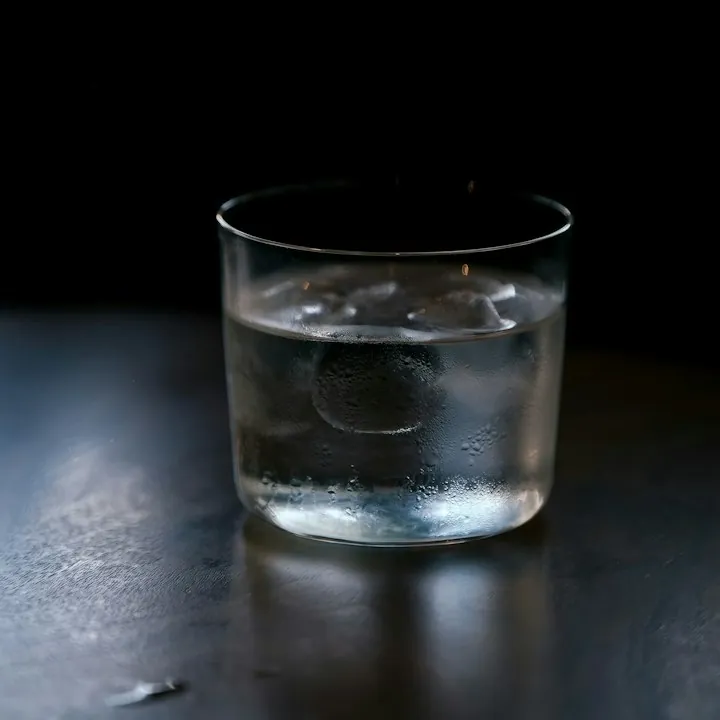
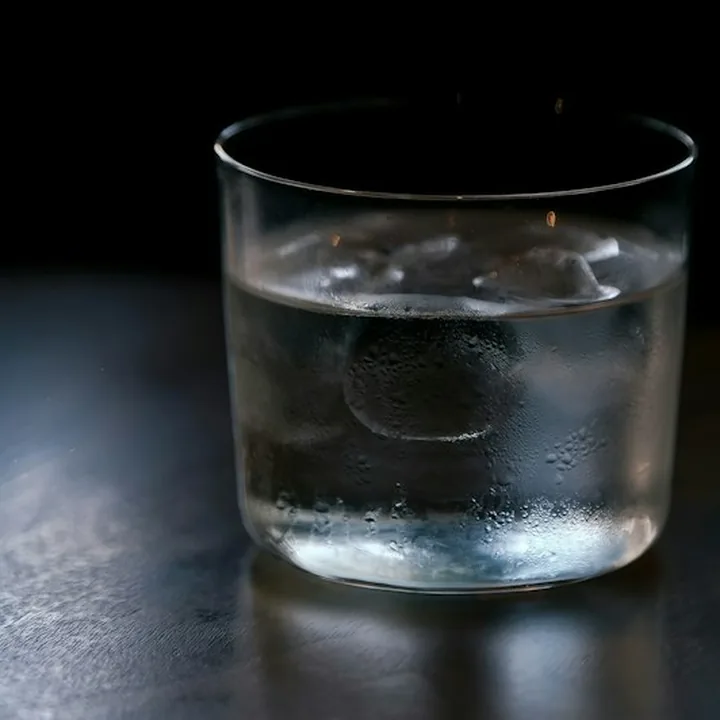
Zoom still water photo; Alexandria Cuvée white and red photos

diff --git a/menu.js b/menu.js
@@ -239,7 +239,7 @@ window.MENU = [
     items: [
       { mk: "Смедеревка", en: "Smederevka", q: "0,5 л. / 1 л.", img: "u_belo_1.webp", p: [220, 400] },
       { mk: "Александрија", en: "Alexandria", q: "0,187 л. / 0,7 л.", img: "u_belo_2.webp", p: [220, 800] },
-      { mk: "Александрија cuvee", en: "Alexandria Cuvée", q: "0,7 л.", img: "u_belo_3.webp", p: 1300 },
+      { mk: "Александрија cuvee", en: "Alexandria Cuvée", q: "0,7 л.", img: "own_alexandria_cuvee_belo.webp", p: 1300 },
       { mk: "Темјаника", en: "Temjanika", q: "0,187 л. / 0,7 л.", img: "u_belo_4.webp", p: [220, 800] },
       { mk: "Траминец", en: "Traminer", q: "0,187 л. / 0,7 л.", img: "u_belo_1.webp", p: [220, 800] }
     ]
@@ -257,7 +257,7 @@ window.MENU = [
     items: [
       { mk: "Кратошија", en: "Kratošija", q: "0,5 л. / 1 л.", img: "u_crveno_1.webp", p: [220, 400] },
       { mk: "Александрија", en: "Alexandria", q: "0,187 л. / 0,7 л.", img: "u_crveno_2.webp", p: [220, 800] },
-      { mk: "Александрија cuvee", en: "Alexandria Cuvée", q: "0,7 л.", img: "u_crveno_3.webp", p: 1300 },
+      { mk: "Александрија cuvee", en: "Alexandria Cuvée", q: "0,7 л.", img: "own_alexandria_cuvee_crveno.webp", p: 1300 },
       { mk: "Т'га за југ", en: "T'ga za Jug", q: "0,187 л. / 0,7 л.", img: "u_crveno_4.webp", p: [220, 800] }
     ]
   },
